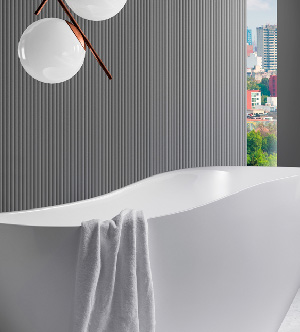
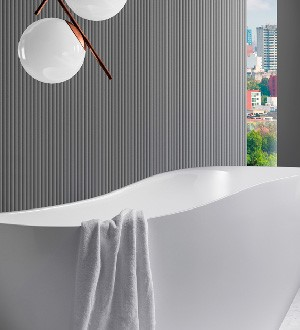
補齊漏傳的檔案

diff --git a/src/EtheriT.Coker.Web.Public/wwwroot/js/Header/Header.js b/src/EtheriT.Coker.Web.Public/wwwroot/js/Header/Header.js
@@ -1,5 +1,11 @@
 
-$('#News_box').verticalLoop({
-    delay: 3000,
-    order: 'asc'
-});
+function PageReady() {
+    $(document).ready(function () {
+        setInterval(function () {
+            $('.news_box li:first-child').slideUp(function () {
+                $(this).appendTo($('.news_box')).slideDown()
+            })
+        }, 3000)
+    })
+}
+

diff --git a/src/EtheriT.Coker.Web.Public/wwwroot/css/Home/Index.css b/src/EtheriT.Coker.Web.Public/wwwroot/css/Home/Index.css
@@ -66,6 +66,7 @@
 
             #Featured > .content > .frame > .image {
                 display: flex;
+                margin-bottom: 10px;
             }
 
                 #Featured > .content > .frame > .image img {
@@ -145,6 +146,7 @@
             #Most_Popular > .content > .frame > .image > img {
                 width: 100%;
                 height: fit-content;
+                margin-bottom: 10px;
             }
 
             #Most_Popular > .content > .frame > .describe {